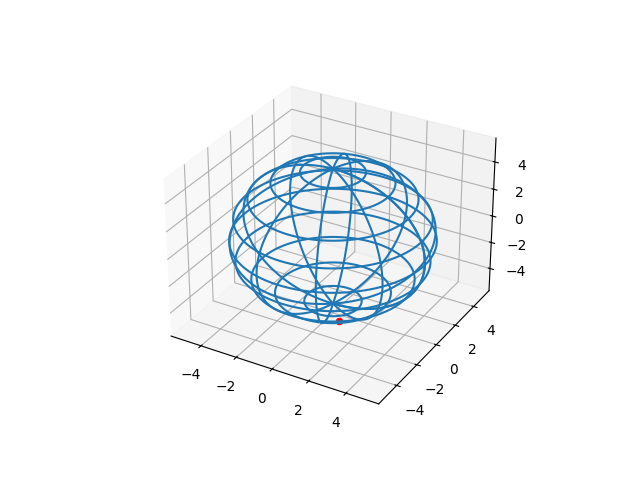
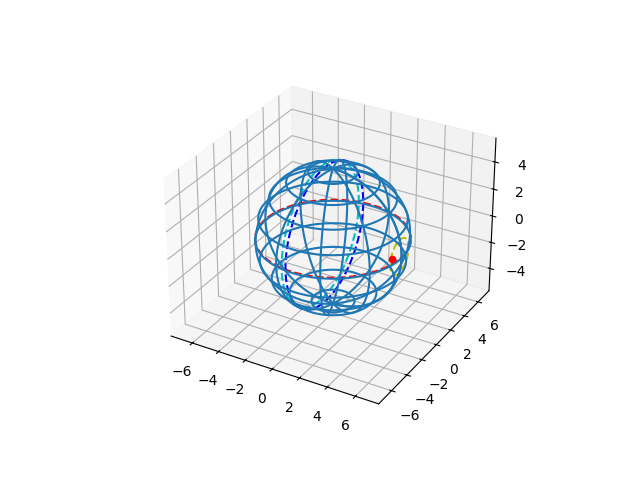
jugbшгп

diff --git a/task3.py b/task3.py
@@ -1,52 +1,88 @@
 import numpy as np
 import matplotlib.pyplot as plt
-fix, ax = plt.subplots(subplot_kw={"projection": "3d"})
+
+fig, ax = plt.subplots(subplot_kw={"projection": "3d"})
 
 phi = np.linspace(0, 2*np.pi, 100)
-theta = np.linspace(0, np.pi, 100)
-R = 5
+theta = np.linspace(0, np.pi, 100) 
+R = 5  
+
 x = R * np.outer(np.cos(phi), np.sin(theta))
-y = R * np.outer (np.sin(phi), np.sin(theta))
+y = R * np.outer(np.sin(phi), np.sin(theta))
 z = R * np.outer(np.ones(np.size(phi)), np.cos(theta))
 
 ax.plot_wireframe(x, y, z, rstride=10, cstride=10)
 
-a = 10  
-b = -50 
-t = 10 
+x_1 = R * np.cos(phi)
+y_1 = R * np.sin(phi)
+z_1 = np.zeros(100)
+ax.plot(x_1, y_1, z_1, color='r', linestyle='--')
 
-x1 = R * np.cos(b) * np.cos(a)
-y1 = R * np.cos(b) * np.sin(a)
-z1 = R * np.sin(b)
-ax.plot (x1, y1, z1, color='r')
+
+a = -10  
+A = 50 
+H = -10  
+
+x1 = R * np.cos(np.radians(A)) * np.cos(np.radians(a))
+y1 = R * np.cos(np.radians(A)) * np.sin(np.radians(a))
+z1 = R * np.sin(np.radians(A))
+
 
 def Ox(x1, y1, z1, a):
     a_rad = np.radians(a)
     x2 = x1
-    y2 = y1 * np.cos(a) - z1 * np.sin(a)
-    z2 = y1 * np.sin(a) + z1 * np.cos(a)
+    y2 = y1 * np.cos(a_rad) - z1 * np.sin(a_rad) 
+    z2 = y1 * np.sin(a_rad) + z1 * np.cos(a_rad) 
     return x2, y2, z2
 
-def Oy(x1, y1, z1, b):
-    b_rad = np.radians(b)
+def Oy(x1, y1, z1, A): 
+    b_rad = np.radians(A)
     y2 = y1
-    x2 = x1 * np.cos(b) + z1 * np.sin(b)
-    z2 = -x1 * np.sin(b) + z1 * np.cos(b)
+    x2 = x1 * np.cos(b_rad) + z1 * np.sin(b_rad)  
+    z2 = -x1 * np.sin(b_rad) + z1 * np.cos(b_rad) 
     return x2, y2, z2
 
-def Oz(x1, y1, z1, t): 
-    t_rad = np.radians(t)
+def Oz(x1, y1, z1, H): 
+    t_rad = np.radians(H)
     z2 = z1
-    x2 = x1 * np.cos(t) - y1 * np.sin(t)
-    y2 = x1 * np.sin(t) + y1 * np.cos(t)
+    x2 = x1 * np.cos(t_rad) - y1 * np.sin(t_rad)   
+    y2 = x1 * np.sin(t_rad) + y1 * np.cos(t_rad)   
     return x2, y2, z2
 
-x2, y2, z2 = Oz(x1, y1, z1, t)  
-x3, y3, z3 = Oy(x2, y2, z2, b) 
-x4, y4, z4 = Ox(x3, y3, z3, a) 
+x2, y2, z2 = Oz(x1, y1, z1, H)
+x3, y3, z3 = Oy(x2, y2, z2, A)
+x4, y4, z4 = Ox(x3, y3, z3, a)
 
-ax.scatter(Ox, Oy, Oz, color='r') 
+ax.scatter(x4, y4, z4, c='r')
 
-ax.scatter(x4, y4, z4, c='r') 
+x1 = R * np.cos(np.radians(a)) * np.cos(np.radians(a))
+y1 = R * np.cos(np.radians(a)) * np.sin(np.radians(a))
+z1 = R * np.sin(np.radians(a))
 
+ygt = np.linspace(0, 2*np.pi, 100)
+x_2 = x1
+y_2 = y1 * np.cos(ygt) - z1 * np.sin(ygt)
+z_2 = y1 * np.sin(ygt) + z1 * np.cos(ygt)
+ax.plot(x_2, y_2, z_2, color='y', linestyle='--')
+
+x2 = R * np.cos(np.radians(A)) * np.cos(np.radians(a))
+y2 = R * np.cos(np.radians(A)) * np.sin(np.radians(a))
+z2 = R * np.sin(np.radians(A))
+
+frt = np.linspace(0, 2*np.pi, 100)
+x_3 =  y2
+y_3 = x2 * np.cos(frt) + z2 * np.sin(frt)
+z_3 = -x2 * np.sin(frt) + z2 * np.cos(frt)
+ax.plot(x_3, y_3, z_3, color='b', linestyle='--')
+
+x3 = R * np.cos(np.radians(H)) * np.cos(np.radians(a))
+y3 = R * np.cos(np.radians(H)) * np.sin(np.radians(a))
+z3 = R * np.sin(np.radians(H))
+
+qaz = np.linspace(0, 2*np.pi, 100)
+x_4 =  z3
+y_4 = x3 * np.cos(qaz) - y3 * np.sin(qaz)
+z_4 = x3 * np.sin(qaz) + y3 * np.cos(qaz)
+ax.plot(x_4, y_4, z_4, color='c', linestyle='--')
+plt.axis('equal')
 plt.savefig("fig_6.png")

diff --git a/task4.py b/task4.py
@@ -1,49 +1,88 @@
 import numpy as np
 import matplotlib.pyplot as plt
-fix, ax = plt.subplots(subplot_kw={"projection": "3d"})
 
-phi = np.linspace(0, 2*np.pi, 100)
-theta = np.linspace(0, np.pi, 100)
-R = 5
+fig, ax = plt.subplots(subplot_kw={"projection": "3d"})
+
+phi = np.linspace(0, 2*np.pi, 100) # Угол phi (азимут)
+theta = np.linspace(0, np.pi, 100)  # Угол theta (зенит)
+R = 5  
+
 x = R * np.outer(np.cos(phi), np.sin(theta))
-y = R * np.outer (np.sin(phi), np.sin(theta))
+y = R * np.outer(np.sin(phi), np.sin(theta))
 z = R * np.outer(np.ones(np.size(phi)), np.cos(theta))
 
 ax.plot_wireframe(x, y, z, rstride=10, cstride=10)
 
-a = 40
-A = 250
-H = 50 
+x_1 = R * np.cos(phi)
+y_1 = R * np.sin(phi)
+z_1 = np.zeros(100)
+ax.plot(x_1, y_1, z_1, color='g', linestyle='--')
 
-x1 = R * np.cos(A) * np.cos(a)
-y1 = R * np.cos(A) * np.sin(a)
-z1 = R * np.sin(A)
+a = 40  
+A = 250 
+H = 50  
 
-def Ox(x1, y1, z1, a):
+x1 = R * np.cos(A/180*np.pi) * np.cos(a/180*np.pi)  # Перевод градусов в радианы
+y1 = R * np.cos(A/180*np.pi) * np.sin(a/180*np.pi)
+z1 = R * np.sin(A/180*np.pi)
+
+def Ox(x1, y1, z1, a): 
     a_rad = np.radians(a)
     x2 = x1
-    y2 = y1 * np.cos(a) - z1 * np.sin(a)
-    z2 = y1 * np.sin(a) + z1 * np.cos(a)
+    y2 = y1 * np.cos(a_rad) - z1 * np.sin(a_rad)
+    z2 = y1 * np.sin(a_rad) + z1 * np.cos(a_rad)
     return x2, y2, z2
 
-def Oy(x1, y1, z1, A):
+def Oy(x1, y1, z1, A): 
     b_rad = np.radians(A)
     y2 = y1
-    x2 = x1 * np.cos(A) + z1 * np.sin(A)
-    z2 = -x1 * np.sin(A) + z1 * np.cos(A)
-    return x2, y2, z2
+    x2 = x1 * np.cos(b_rad) + z1 * np.sin(b_rad)
+    z2 = -x1 * np.sin(b_rad) + z1 * np.cos(b_rad)
+    return x2, y2, x2
 
 def Oz(x1, y1, z1, H): 
     t_rad = np.radians(H)
     z2 = z1
-    x2 = x1 * np.cos(H) - y1 * np.sin(H)
-    y2 = x1 * np.sin(H) + y1 * np.cos(H)
+    x2 = x1 * np.cos(t_rad) - y1 * np.sin(t_rad)
+    y2 = x1 * np.sin(t_rad) + y1 * np.cos(t_rad)
     return x2, y2, z2
 
-x2, y2, z2 = Oz(x1, y1, z1, H)  
-x3, y3, z3 = Oy(x2, y2, z2, A) 
-x4, y4, z4 = Ox(x3, y3, z3, a) 
+x2, y2, z2 = Oz(x1, y1, z1, H)
+x3, y3, z3 = Oy(x2, y2, z2, A)
+x4, y4, z4 = Ox(x3, y3, z3, a)
 
-ax.scatter(x4, y4, z4, c='r') 
+ax.scatter(x4, y4, z4, c='r')
+
+x1 = R * np.cos(a/180*np.pi) * np.cos(a/180*np.pi) 
+y1 = R * np.cos(a/180*np.pi) * np.sin(a/180*np.pi)
+z1 = R * np.sin(a/180*np.pi)
+
+ygt = np.linspace(0, 2*np.pi, 100)
+x_2 = x1
+y_2 = y1 * np.cos(ygt) - z1 * np.sin(ygt)
+z_2 = y1 * np.sin(ygt) + z1 * np.cos(ygt)
+ax.plot(x_2, y_2, z_2, color='y', linestyle='--')
+
+x2 = R * np.cos(A/180*np.pi) * np.cos(a/180*np.pi)
+y2 = R * np.cos(A/180*np.pi) * np.sin(a/180*np.pi)
+z2 = R * np.sin(A/180*np.pi)
+
+frt = np.linspace(0, 2*np.pi, 100)
+x_3 =  y2
+y_3 = x2 * np.cos(frt) + z2 * np.sin(frt)
+z_3 = -x2 * np.sin(frt) + z2 * np.cos(frt)
+ax.plot(x_3, y_3, z_3, color='b', linestyle='--')
+
+x3 = R * np.cos(H/180*np.pi) * np.cos(a/180*np.pi)
+y3 = R * np.cos(H/180*np.pi) * np.sin(a/180*np.pi)
+z3 = R * np.sin(H/180*np.pi)
+
+qaz = np.linspace(0, 2*np.pi, 100)
+x_4 =  z3
+y_4 = x3 * np.cos(qaz) - y3 * np.sin(qaz)
+z_4 = x3 * np.sin(qaz) + y3 * np.cos(qaz)
+ax.plot(x_4, y_4, z_4, color='c', linestyle='--')
 
 plt.savefig("fig_7.png")
+
+

diff --git a/task.py b/task.py
@@ -1,49 +1,77 @@
 import numpy as np
 import matplotlib.pyplot as plt
-fix, ax = plt.subplots(subplot_kw={"projection": "3d"})
+
+fig, ax = plt.subplots(subplot_kw={"projection": "3d"})
 
 phi = np.linspace(0, 2*np.pi, 100)
-theta = np.linspace(0, np.pi, 100)
-R = 5
+theta = np.linspace(0, np.pi, 100) 
+R = 5  
+
 x = R * np.outer(np.cos(phi), np.sin(theta))
-y = R * np.outer (np.sin(phi), np.sin(theta))
+y = R * np.outer(np.sin(phi), np.sin(theta))
 z = R * np.outer(np.ones(np.size(phi)), np.cos(theta))
 
 ax.plot_wireframe(x, y, z, rstride=10, cstride=10)
 
-a = 10  
-b = -50 
-t = 10 
+x_1 = R * np.cos(phi)
+y_1 = R * np.sin(phi)
+z_1 = np.zeros(100)
+ax.plot(x_1, y_1, z_1, color='r', linestyle='--')
 
-x1 = R * np.cos(b) * np.cos(a)
-y1 = R * np.cos(b) * np.sin(a)
-z1 = R * np.sin(b)
+a = np.radians(-10)      
+b = np.radians(50)
+t = np.radians(-10)
 
-Ox(x1, y1, z1, a):
+def Ox(x1, y1, z1, a):
     a_rad = np.radians(a)
     x2 = x1
-    y2 = y1 * np.cos(a) - z1 * np.sin(a)
-    z2 = y1 * np.sin(a) + z1 * np.cos(a)
-    
+    y2 = y1 * np.cos(a_rad) - z1 * np.sin(a_rad) 
+    z2 = y1 * np.sin(a_rad) + z1 * np.cos(a_rad) 
+    return x2, y2, z2
 
-def Oy(x1, y1, z1, b):
+def Oy(x1, y1, z1, b): 
     b_rad = np.radians(b)
     y2 = y1
-    x2 = x1 * np.cos(b) + z1 * np.sin(b)
-    z2 = -x1 * np.sin(b) + z1 * np.cos(b)
+    x2 = x1 * np.cos(b_rad) + z1 * np.sin(b_rad)  
+    z2 = -x1 * np.sin(b_rad) + z1 * np.cos(b_rad) 
     return x2, y2, z2
 
 def Oz(x1, y1, z1, t): 
     t_rad = np.radians(t)
     z2 = z1
-    x2 = x1 * np.cos(t) - y1 * np.sin(t)
-    y2 = x1 * np.sin(t) + y1 * np.cos(t)
+    x2 = x1 * np.cos(t_rad) - y1 * np.sin(t_rad)   
+    y2 = x1 * np.sin(t_rad) + y1 * np.cos(t_rad)   
     return x2, y2, z2
 
-x2, y2, z2 = Oz(x1, y1, z1, t)  
-x3, y3, z3 = Oy(x2, y2, z2, b) 
-x4, y4, z4 = Ox(x3, y3, z3, a) 
+x2, y2, z2 = Oz(x_1, y_1, z_1, t)
+x3, y3, z3 = Oy(x2, y2, z2, b)
+x4, y4, z4 = Ox(x3, y3, z3, a)
 
-ax.scatter(x4, y4, z4, c='r') 
+ax.scatter(x4, y4, z4, c='r')
 
-plt.savefig("fig_6.png")
+x_1_tilted = x_1
+y_1_tilted = y_1 * np.cos(a) - z_1 * np.sin(a)
+z_1_tilted = y_1 * np.sin(a) + z_1 * np.cos(a)
+
+
+x1 = x_1
+y1 = y_1 * np.cos(a) - z_1 * np.sin(a)
+z1 = y_1 * np.sin(a) + z_1 * np.cos(a)
+
+
+x2 = x1 * np.cos(b) + z1 * np.sin(b)
+y2 = y1
+z2 = -x1 * np.sin(b) + z1 * np.cos(b)
+
+
+x_3 = x2 * np.cos(t) - y2 * np.sin(t)
+y_3 = x2 * np.sin(t) + y2 * np.cos(t)
+z_3 = z2
+
+
+ax.plot(x_1, y_1, z_1, 'gray', linestyle='--')
+ax.plot(x_1_tilted, y_1_tilted, z_1_tilted, 'y')
+ax.scatter(x_3, y_3, z_3, color='green')
+
+
+plt.savefig("fig_7.png")

diff --git a/task2.py b/task2.py
@@ -11,9 +11,11 @@ z = R * np.outer(np.ones(np.size(phi)), np.cos(theta))
 
 ax.plot_wireframe(x, y, z, rstride=10, cstride=10)
 
-x1 = R * np.cos(phi)
-y1 = R * np.sin(phi)
-z1 = np.zeros(100) 
+x_1 = R * np.cos(phi)
+y_1 = R * np.sin(phi)
+z_1 = np.zeros(100) 
+
+ax.scatter (x_1, y_1, z_1, color='r')
 
 def Ox(x1, y1, z1, alpha):
     x2 = x1
